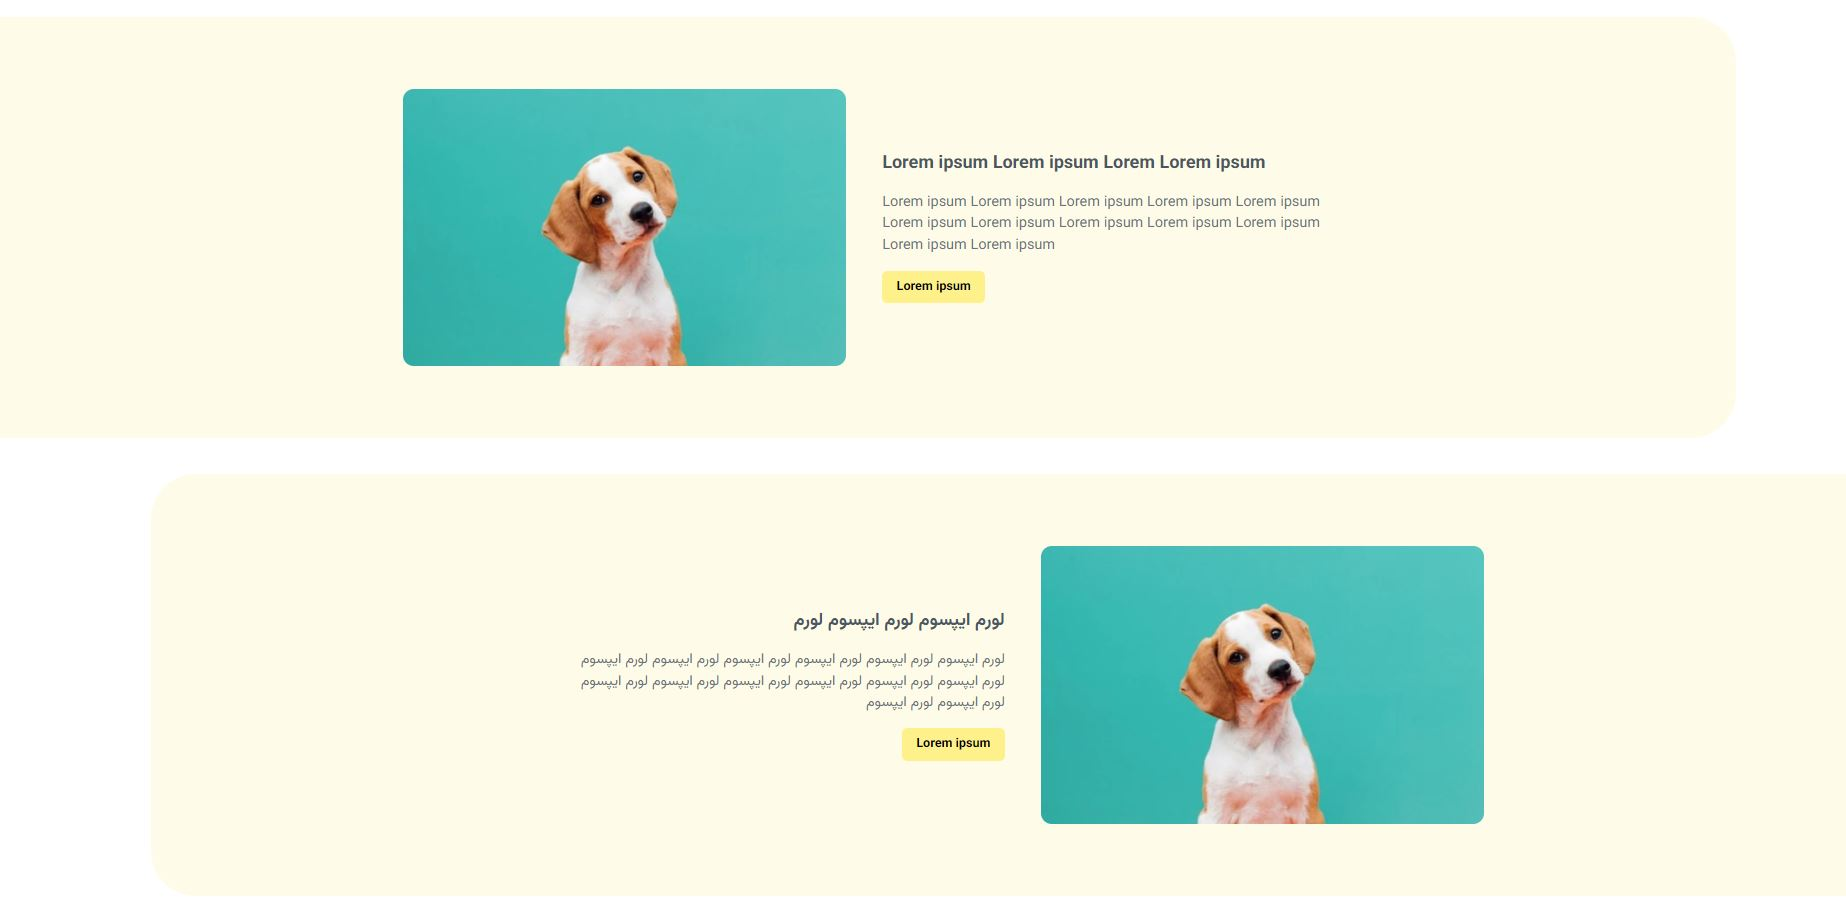
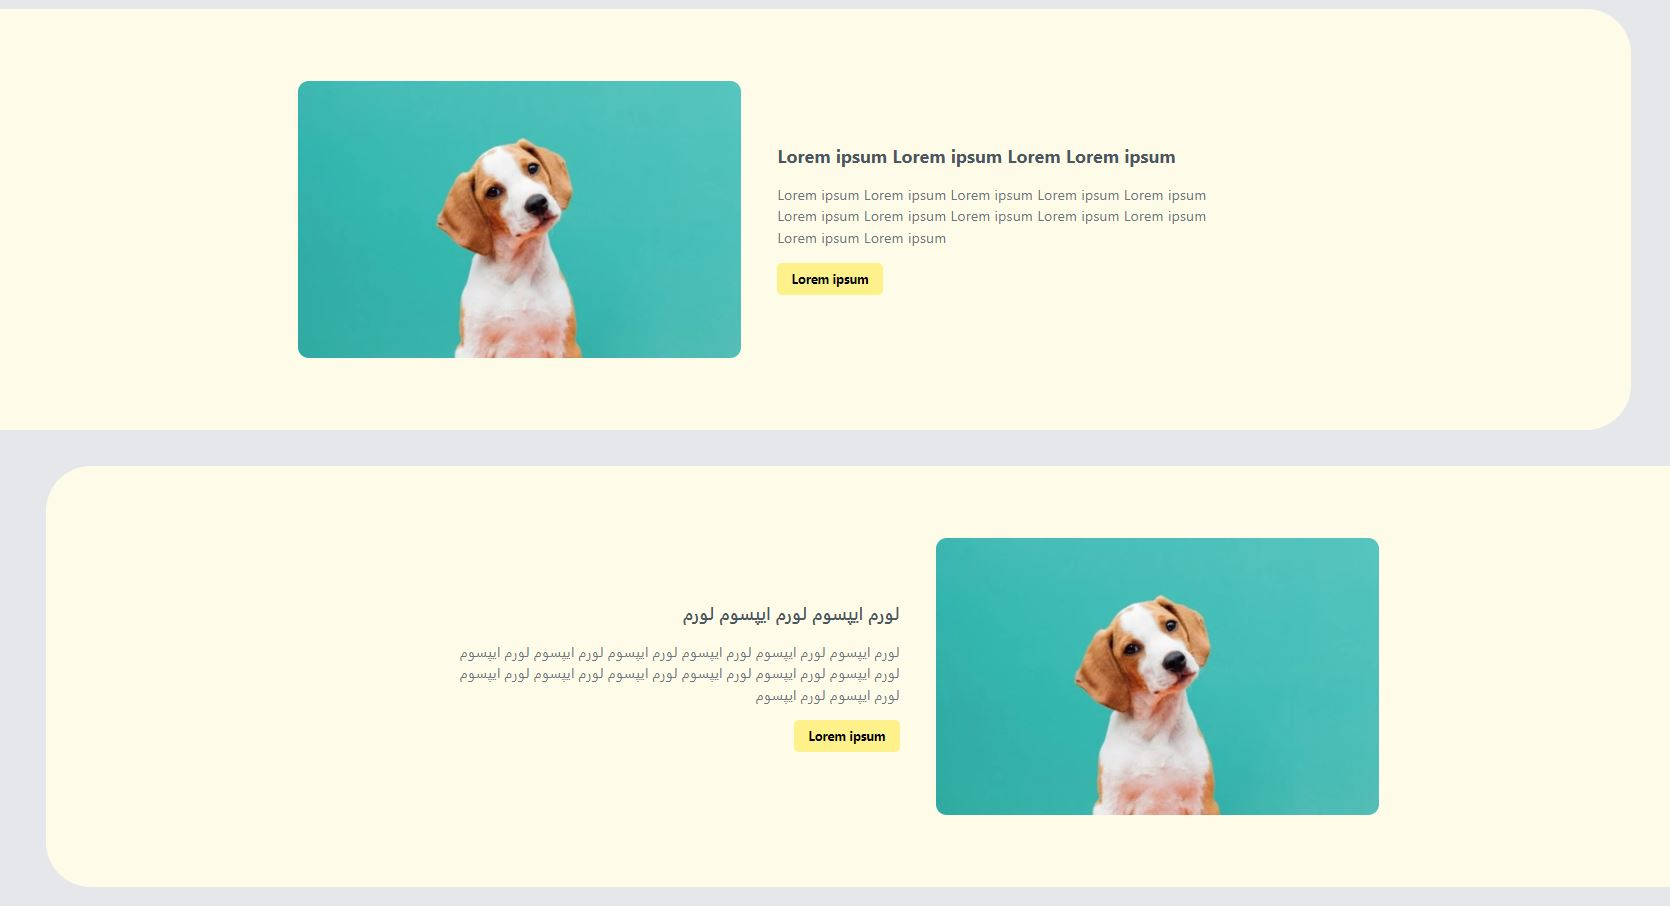
change section background color & screenshot file

Changed region(s): [[0.0, 0.0, 1.0, 1.0], [0.1557, 0.0618, 0.7162, 0.4018], [0.2802, 0.5872, 0.8407, 0.9272]]

diff --git a/section.html b/section.html
@@ -8,7 +8,7 @@
     <script src="https://cdn.tailwindcss.com"></script>
 </head>
 
-<body>
+<body class='bg-gray-200'>
     <!-- LTR -->
     <div class='grid grid-cols-12  my-10' dir='ltr'>
         <div class='col-span-11 bg-yellow-50 p-10 md:p-20 rounded-r-[50px]'>
